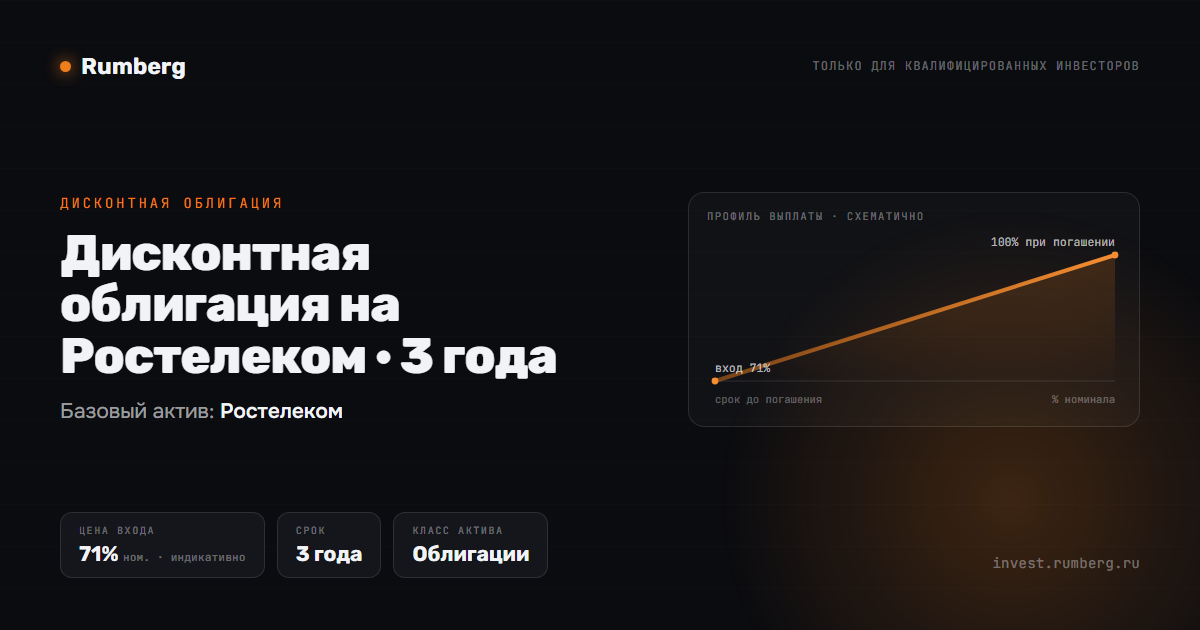
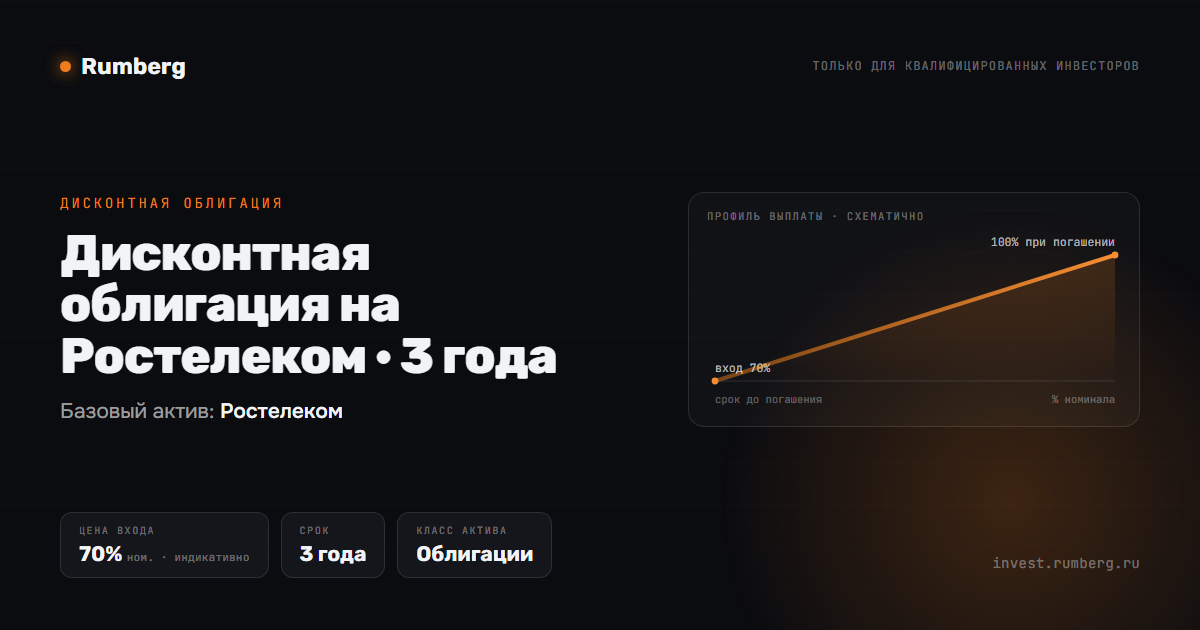
Дисконтные облигации: котировки −1 п.п.
Все 10 дисконтных облигаций доски дешевле на 1 п.п. (решение Руслана после
пересчёта по OIS RUONIA bid от 12.10.2026: расчёт давал −1…−3).
Пересобраны превью p/ и обложки og/ этих продуктов.

Changed region(s): [[0.3083, 0.8143, 0.4625, 0.9048], [0.0617, 0.8444, 0.2158, 0.9048], [0.2158, 0.8143, 0.3083, 0.9048]]

diff --git a/data/instruments.js b/data/instruments.js
@@ -1667,7 +1667,7 @@ window.SITE_DATA = {
       "currency": "RUB",
       "tenor": "3 года",
       "expiry": "27.07.2029",
-      "quote": 70,
+      "quote": 69,
       "chg": 0,
       "minNom": 1000000,
       "about": "ВЭБ.РФ — государственная корпорация развития: финансирует крупные инфраструктурные и промышленные проекты страны; 100% принадлежит Российской Федерации.",
@@ -1682,7 +1682,7 @@ window.SITE_DATA = {
       "currency": "RUB",
       "tenor": "5 лет",
       "expiry": "27.07.2031",
-      "quote": 56,
+      "quote": 55,
       "chg": 0,
       "minNom": 1000000,
       "about": "ВЭБ.РФ — государственная корпорация развития: финансирует крупные инфраструктурные и промышленные проекты страны; 100% принадлежит Российской Федерации.",
@@ -1697,7 +1697,7 @@ window.SITE_DATA = {
       "currency": "RUB",
       "tenor": "3 года",
       "expiry": "27.07.2029",
-      "quote": 71,
+      "quote": 70,
       "chg": 0,
       "minNom": 1000000,
       "about": "«Газпром нефть» — одна из крупнейших вертикально интегрированных нефтяных компаний России, дочерняя структура «Газпрома».",
@@ -1712,7 +1712,7 @@ window.SITE_DATA = {
       "currency": "RUB",
       "tenor": "5 лет",
       "expiry": "27.07.2031",
-      "quote": 57,
+      "quote": 56,
       "chg": 0,
       "minNom": 1000000,
       "about": "«Газпром нефть» — одна из крупнейших вертикально интегрированных нефтяных компаний России, дочерняя структура «Газпрома».",
@@ -1727,7 +1727,7 @@ window.SITE_DATA = {
       "currency": "RUB",
       "tenor": "3 года",
       "expiry": "27.07.2029",
-      "quote": 70,
+      "quote": 69,
       "chg": 0,
       "minNom": 1000000,
       "about": "«Магнит» — один из крупнейших продуктовых ритейлеров России: магазины у дома, супермаркеты и дискаунтеры по всей стране.",
@@ -1742,7 +1742,7 @@ window.SITE_DATA = {
       "currency": "RUB",
       "tenor": "5 лет",
       "expiry": "27.07.2031",
-      "quote": 57,
+      "quote": 56,
       "chg": 0,
       "minNom": 1000000,
       "about": "«Магнит» — один из крупнейших продуктовых ритейлеров России: магазины у дома, супермаркеты и дискаунтеры по всей стране.",
@@ -1757,7 +1757,7 @@ window.SITE_DATA = {
       "currency": "RUB",
       "tenor": "3 года",
       "expiry": "27.07.2029",
-      "quote": 71,
+      "quote": 70,
       "chg": 0,
       "minNom": 1000000,
       "about": "«Ростелеком» — национальный оператор связи и цифровых сервисов с крупнейшей в стране фиксированной и оптоволоконной инфраструктурой.",
@@ -1772,7 +1772,7 @@ window.SITE_DATA = {
       "currency": "RUB",
       "tenor": "5 лет",
       "expiry": "27.07.2031",
-      "quote": 58,
+      "quote": 57,
       "chg": 0,
       "minNom": 1000000,
       "about": "«Ростелеком» — национальный оператор связи и цифровых сервисов с крупнейшей в стране фиксированной и оптоволоконной инфраструктурой.",
@@ -1787,7 +1787,7 @@ window.SITE_DATA = {
       "currency": "RUB",
       "tenor": "3 года",
       "expiry": "27.07.2029",
-      "quote": 71,
+      "quote": 70,
       "chg": 0,
       "minNom": 1000000,
       "about": "«Северсталь» — вертикально интегрированная металлургическая компания: сталь и прокат с собственной сырьевой и энергетической базой.",
@@ -1802,7 +1802,7 @@ window.SITE_DATA = {
       "currency": "RUB",
       "tenor": "5 лет",
       "expiry": "27.07.2031",
-      "quote": 58,
+      "quote": 57,
       "chg": 0,
       "minNom": 1000000,
       "about": "«Северсталь» — вертикально интегрированная металлургическая компания: сталь и прокат с собственной сырьевой и энергетической базой.",

diff --git a/p/D-GPN-3Y.html b/p/D-GPN-3Y.html
@@ -4,12 +4,12 @@
 <meta charset="utf-8">
 <meta name="viewport" content="width=device-width, initial-scale=1">
 <title>Дисконтная облигация на Газпром нефть · 3 года — Rumberg</title>
-<meta name="description" content="Дисконтная облигация на Газпром нефть · котировка 71% от номинала · Rumberg — структурные продукты для квалифицированных инвесторов">
+<meta name="description" content="Дисконтная облигация на Газпром нефть · котировка 70% от номинала · Rumberg — структурные продукты для квалифицированных инвесторов">
 <meta property="og:type" content="website">
 <meta property="og:site_name" content="Rumberg">
 <meta property="og:locale" content="ru_RU">
 <meta property="og:title" content="Дисконтная облигация на Газпром нефть · 3 года">
-<meta property="og:description" content="Дисконтная облигация на Газпром нефть · котировка 71% от номинала · Rumberg — структурные продукты для квалифицированных инвесторов">
+<meta property="og:description" content="Дисконтная облигация на Газпром нефть · котировка 70% от номинала · Rumberg — структурные продукты для квалифицированных инвесторов">
 <meta property="og:url" content="https://invest.rumberg.ru/p/D-GPN-3Y.html">
 <meta property="og:image" content="https://invest.rumberg.ru/og/D-GPN-3Y.png">
 <meta property="og:image:width" content="1200">

diff --git a/p/D-GPN-5Y.html b/p/D-GPN-5Y.html
@@ -4,12 +4,12 @@
 <meta charset="utf-8">
 <meta name="viewport" content="width=device-width, initial-scale=1">
 <title>Дисконтная облигация на Газпром нефть · 5 лет — Rumberg</title>
-<meta name="description" content="Дисконтная облигация на Газпром нефть · котировка 57% от номинала · Rumberg — структурные продукты для квалифицированных инвесторов">
+<meta name="description" content="Дисконтная облигация на Газпром нефть · котировка 56% от номинала · Rumberg — структурные продукты для квалифицированных инвесторов">
 <meta property="og:type" content="website">
 <meta property="og:site_name" content="Rumberg">
 <meta property="og:locale" content="ru_RU">
 <meta property="og:title" content="Дисконтная облигация на Газпром нефть · 5 лет">
-<meta property="og:description" content="Дисконтная облигация на Газпром нефть · котировка 57% от номинала · Rumberg — структурные продукты для квалифицированных инвесторов">
+<meta property="og:description" content="Дисконтная облигация на Газпром нефть · котировка 56% от номинала · Rumberg — структурные продукты для квалифицированных инвесторов">
 <meta property="og:url" content="https://invest.rumberg.ru/p/D-GPN-5Y.html">
 <meta property="og:image" content="https://invest.rumberg.ru/og/D-GPN-5Y.png">
 <meta property="og:image:width" content="1200">

diff --git a/p/D-CHMF-3Y.html b/p/D-CHMF-3Y.html
@@ -4,12 +4,12 @@
 <meta charset="utf-8">
 <meta name="viewport" content="width=device-width, initial-scale=1">
 <title>Дисконтная облигация на Северсталь · 3 года — Rumberg</title>
-<meta name="description" content="Дисконтная облигация на Северсталь · котировка 71% от номинала · Rumberg — структурные продукты для квалифицированных инвесторов">
+<meta name="description" content="Дисконтная облигация на Северсталь · котировка 70% от номинала · Rumberg — структурные продукты для квалифицированных инвесторов">
 <meta property="og:type" content="website">
 <meta property="og:site_name" content="Rumberg">
 <meta property="og:locale" content="ru_RU">
 <meta property="og:title" content="Дисконтная облигация на Северсталь · 3 года">
-<meta property="og:description" content="Дисконтная облигация на Северсталь · котировка 71% от номинала · Rumberg — структурные продукты для квалифицированных инвесторов">
+<meta property="og:description" content="Дисконтная облигация на Северсталь · котировка 70% от номинала · Rumberg — структурные продукты для квалифицированных инвесторов">
 <meta property="og:url" content="https://invest.rumberg.ru/p/D-CHMF-3Y.html">
 <meta property="og:image" content="https://invest.rumberg.ru/og/D-CHMF-3Y.png">
 <meta property="og:image:width" content="1200">

diff --git a/p/D-RTKM-3Y.html b/p/D-RTKM-3Y.html
@@ -4,12 +4,12 @@
 <meta charset="utf-8">
 <meta name="viewport" content="width=device-width, initial-scale=1">
 <title>Дисконтная облигация на Ростелеком · 3 года — Rumberg</title>
-<meta name="description" content="Дисконтная облигация на Ростелеком · котировка 71% от номинала · Rumberg — структурные продукты для квалифицированных инвесторов">
+<meta name="description" content="Дисконтная облигация на Ростелеком · котировка 70% от номинала · Rumberg — структурные продукты для квалифицированных инвесторов">
 <meta property="og:type" content="website">
 <meta property="og:site_name" content="Rumberg">
 <meta property="og:locale" content="ru_RU">
 <meta property="og:title" content="Дисконтная облигация на Ростелеком · 3 года">
-<meta property="og:description" content="Дисконтная облигация на Ростелеком · котировка 71% от номинала · Rumberg — структурные продукты для квалифицированных инвесторов">
+<meta property="og:description" content="Дисконтная облигация на Ростелеком · котировка 70% от номинала · Rumberg — структурные продукты для квалифицированных инвесторов">
 <meta property="og:url" content="https://invest.rumberg.ru/p/D-RTKM-3Y.html">
 <meta property="og:image" content="https://invest.rumberg.ru/og/D-RTKM-3Y.png">
 <meta property="og:image:width" content="1200">

diff --git a/p/D-CHMF-5Y.html b/p/D-CHMF-5Y.html
@@ -4,12 +4,12 @@
 <meta charset="utf-8">
 <meta name="viewport" content="width=device-width, initial-scale=1">
 <title>Дисконтная облигация на Северсталь · 5 лет — Rumberg</title>
-<meta name="description" content="Дисконтная облигация на Северсталь · котировка 58% от номинала · Rumberg — структурные продукты для квалифицированных инвесторов">
+<meta name="description" content="Дисконтная облигация на Северсталь · котировка 57% от номинала · Rumberg — структурные продукты для квалифицированных инвесторов">
 <meta property="og:type" content="website">
 <meta property="og:site_name" content="Rumberg">
 <meta property="og:locale" content="ru_RU">
 <meta property="og:title" content="Дисконтная облигация на Северсталь · 5 лет">
-<meta property="og:description" content="Дисконтная облигация на Северсталь · котировка 58% от номинала · Rumberg — структурные продукты для квалифицированных инвесторов">
+<meta property="og:description" content="Дисконтная облигация на Северсталь · котировка 57% от номинала · Rumberg — структурные продукты для квалифицированных инвесторов">
 <meta property="og:url" content="https://invest.rumberg.ru/p/D-CHMF-5Y.html">
 <meta property="og:image" content="https://invest.rumberg.ru/og/D-CHMF-5Y.png">
 <meta property="og:image:width" content="1200">

diff --git a/p/D-RTKM-5Y.html b/p/D-RTKM-5Y.html
@@ -4,12 +4,12 @@
 <meta charset="utf-8">
 <meta name="viewport" content="width=device-width, initial-scale=1">
 <title>Дисконтная облигация на Ростелеком · 5 лет — Rumberg</title>
-<meta name="description" content="Дисконтная облигация на Ростелеком · котировка 58% от номинала · Rumberg — структурные продукты для квалифицированных инвесторов">
+<meta name="description" content="Дисконтная облигация на Ростелеком · котировка 57% от номинала · Rumberg — структурные продукты для квалифицированных инвесторов">
 <meta property="og:type" content="website">
 <meta property="og:site_name" content="Rumberg">
 <meta property="og:locale" content="ru_RU">
 <meta property="og:title" content="Дисконтная облигация на Ростелеком · 5 лет">
-<meta property="og:description" content="Дисконтная облигация на Ростелеком · котировка 58% от номинала · Rumberg — структурные продукты для квалифицированных инвесторов">
+<meta property="og:description" content="Дисконтная облигация на Ростелеком · котировка 57% от номинала · Rumberg — структурные продукты для квалифицированных инвесторов">
 <meta property="og:url" content="https://invest.rumberg.ru/p/D-RTKM-5Y.html">
 <meta property="og:image" content="https://invest.rumberg.ru/og/D-RTKM-5Y.png">
 <meta property="og:image:width" content="1200">

diff --git a/p/D-MGNT-3Y.html b/p/D-MGNT-3Y.html
@@ -4,12 +4,12 @@
 <meta charset="utf-8">
 <meta name="viewport" content="width=device-width, initial-scale=1">
 <title>Дисконтная облигация на Магнит · 3 года — Rumberg</title>
-<meta name="description" content="Дисконтная облигация на Магнит · котировка 70% от номинала · Rumberg — структурные продукты для квалифицированных инвесторов">
+<meta name="description" content="Дисконтная облигация на Магнит · котировка 69% от номинала · Rumberg — структурные продукты для квалифицированных инвесторов">
 <meta property="og:type" content="website">
 <meta property="og:site_name" content="Rumberg">
 <meta property="og:locale" content="ru_RU">
 <meta property="og:title" content="Дисконтная облигация на Магнит · 3 года">
-<meta property="og:description" content="Дисконтная облигация на Магнит · котировка 70% от номинала · Rumberg — структурные продукты для квалифицированных инвесторов">
+<meta property="og:description" content="Дисконтная облигация на Магнит · котировка 69% от номинала · Rumberg — структурные продукты для квалифицированных инвесторов">
 <meta property="og:url" content="https://invest.rumberg.ru/p/D-MGNT-3Y.html">
 <meta property="og:image" content="https://invest.rumberg.ru/og/D-MGNT-3Y.png">
 <meta property="og:image:width" content="1200">

diff --git a/p/D-MGNT-5Y.html b/p/D-MGNT-5Y.html
@@ -4,12 +4,12 @@
 <meta charset="utf-8">
 <meta name="viewport" content="width=device-width, initial-scale=1">
 <title>Дисконтная облигация на Магнит · 5 лет — Rumberg</title>
-<meta name="description" content="Дисконтная облигация на Магнит · котировка 57% от номинала · Rumberg — структурные продукты для квалифицированных инвесторов">
+<meta name="description" content="Дисконтная облигация на Магнит · котировка 56% от номинала · Rumberg — структурные продукты для квалифицированных инвесторов">
 <meta property="og:type" content="website">
 <meta property="og:site_name" content="Rumberg">
 <meta property="og:locale" content="ru_RU">
 <meta property="og:title" content="Дисконтная облигация на Магнит · 5 лет">
-<meta property="og:description" content="Дисконтная облигация на Магнит · котировка 57% от номинала · Rumberg — структурные продукты для квалифицированных инвесторов">
+<meta property="og:description" content="Дисконтная облигация на Магнит · котировка 56% от номинала · Rumberg — структурные продукты для квалифицированных инвесторов">
 <meta property="og:url" content="https://invest.rumberg.ru/p/D-MGNT-5Y.html">
 <meta property="og:image" content="https://invest.rumberg.ru/og/D-MGNT-5Y.png">
 <meta property="og:image:width" content="1200">

diff --git a/p/D-VEB-3Y.html b/p/D-VEB-3Y.html
@@ -4,12 +4,12 @@
 <meta charset="utf-8">
 <meta name="viewport" content="width=device-width, initial-scale=1">
 <title>Дисконтная облигация на ВЭБ.РФ · 3 года — Rumberg</title>
-<meta name="description" content="Дисконтная облигация на ВЭБ.РФ · котировка 70% от номинала · Rumberg — структурные продукты для квалифицированных инвесторов">
+<meta name="description" content="Дисконтная облигация на ВЭБ.РФ · котировка 69% от номинала · Rumberg — структурные продукты для квалифицированных инвесторов">
 <meta property="og:type" content="website">
 <meta property="og:site_name" content="Rumberg">
 <meta property="og:locale" content="ru_RU">
 <meta property="og:title" content="Дисконтная облигация на ВЭБ.РФ · 3 года">
-<meta property="og:description" content="Дисконтная облигация на ВЭБ.РФ · котировка 70% от номинала · Rumberg — структурные продукты для квалифицированных инвесторов">
+<meta property="og:description" content="Дисконтная облигация на ВЭБ.РФ · котировка 69% от номинала · Rumberg — структурные продукты для квалифицированных инвесторов">
 <meta property="og:url" content="https://invest.rumberg.ru/p/D-VEB-3Y.html">
 <meta property="og:image" content="https://invest.rumberg.ru/og/D-VEB-3Y.png">
 <meta property="og:image:width" content="1200">

diff --git a/p/D-VEB-5Y.html b/p/D-VEB-5Y.html
@@ -4,12 +4,12 @@
 <meta charset="utf-8">
 <meta name="viewport" content="width=device-width, initial-scale=1">
 <title>Дисконтная облигация на ВЭБ.РФ · 5 лет — Rumberg</title>
-<meta name="description" content="Дисконтная облигация на ВЭБ.РФ · котировка 56% от номинала · Rumberg — структурные продукты для квалифицированных инвесторов">
+<meta name="description" content="Дисконтная облигация на ВЭБ.РФ · котировка 55% от номинала · Rumberg — структурные продукты для квалифицированных инвесторов">
 <meta property="og:type" content="website">
 <meta property="og:site_name" content="Rumberg">
 <meta property="og:locale" content="ru_RU">
 <meta property="og:title" content="Дисконтная облигация на ВЭБ.РФ · 5 лет">
-<meta property="og:description" content="Дисконтная облигация на ВЭБ.РФ · котировка 56% от номинала · Rumberg — структурные продукты для квалифицированных инвесторов">
+<meta property="og:description" content="Дисконтная облигация на ВЭБ.РФ · котировка 55% от номинала · Rumberg — структурные продукты для квалифицированных инвесторов">
 <meta property="og:url" content="https://invest.rumberg.ru/p/D-VEB-5Y.html">
 <meta property="og:image" content="https://invest.rumberg.ru/og/D-VEB-5Y.png">
 <meta property="og:image:width" content="1200">
